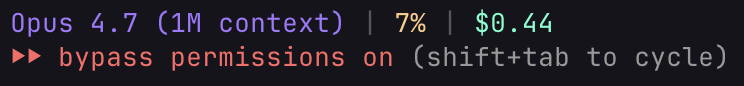
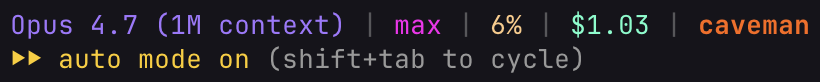
add claude code tuning post on caveman mode

Changed region(s): [[0.0, 0.5122, 0.9892, 0.878], [0.0, 0.122, 0.9892, 0.4634], [0.371, 0.5366, 0.4019, 0.561]]

diff --git a/content/posts/caveman-mode.md b/content/posts/caveman-mode.md
@@ -1,0 +1,147 @@
+---
+title: "Claude Code Tuning - Caveman Mode"
+description: "A skill that strips filler from agent replies, cuts token usage ~75% and leaves the technical substance intact"
+publishDate: "6 May 2026"
+tags: ["ai"]
+---
+
+Every "Sure! I'd be happy to help you with that." is tokens you paid for and context you burned. Multiply by a session and the bill - in dollars and in context window - adds up fast. Caveman mode is a skill that fixes that.
+
+## What it does
+
+Caveman mode is a Claude Code skill that tells the agent to respond like a terse, smart caveman. Filler dies. Technical substance stays. Code blocks, error strings and exact names come through untouched.
+
+Before:
+
+> Sure! I'd be happy to take a look at that. The issue you're experiencing is likely caused by an off-by-one error in the token expiry check within the authentication middleware. Let me explain what's happening...
+
+After:
+
+> Bug in auth middleware. Token expiry check use `<` not `<=`. Fix:
+
+Same information. ~75% fewer tokens. Same diff at the end of the turn.
+
+## How to trigger it
+
+Grab the [SKILL.md](https://github.com/JuliusBrussee/caveman/blob/main/caveman/SKILL.md) from Julius Brussee's repo and drop it into `~/.claude/skills/caveman/`.
+
+Once loaded, invoke it with any of these:
+
+- `/caveman`
+- "caveman mode"
+- "talk like caveman"
+- "be brief"
+- "less tokens"
+
+Turn off with "stop caveman" or "normal mode".
+
+## What it actually strips
+
+- Articles (a / an / the)
+- Filler (just / really / basically / actually / simply)
+- Pleasantries (sure / certainly / of course / happy to)
+- Hedging ("it seems that", "you might want to consider")
+- Long conjunctions replaced with arrows: `X -> Y`
+- Common terms abbreviated: DB, auth, config, req, res, fn, impl
+
+What it does *not* touch:
+
+- Code blocks
+- Error messages (quoted exact)
+- Symbol names, file paths, flags
+- Security warnings and destructive-action confirmations
+
+That last exemption matters. When the agent is about to run `DROP TABLE users`, you want the full English warning, not a fragment. The skill drops caveman temporarily for irreversible actions, multi-step sequences where fragment order risks misread and when you ask it to clarify. Then resumes.
+
+## When to reach for it
+
+- Long sessions where context fills up faster than you'd like
+- Debug loops with heavy back-and-forth
+- Any task where the *output you care about* is a diff, a command or a fact - not the explanation around it
+
+## When not to
+
+- First pass on an unfamiliar codebase where the prose around the answer is doing teaching work
+- Writing documentation, tickets, ADRs or PR descriptions - you want the full sentences there
+- Pairing with a less experienced engineer who needs the framing
+
+The skill's value is proportional to how much of the response you were already skimming past.
+
+## Pair it with a context-aware status line
+
+Caveman mode compresses output. A status line makes the compression visible. You can see context usage tick up slower, cost climb less steeply and the difference between a caveman turn and a normal one in real time.
+
+Drop this into `~/.claude/statusline-command.sh`:
+
+```bash
+#!/bin/bash
+input=$(cat)
+
+model=$(echo "$input" | jq -r '.model.display_name | sub("^anthropic\\.claude-";"") | sub("-v[0-9]+$";"")')
+effort=$(echo "$input" | jq -r '.effort.level // empty')
+ctx=$(echo "$input" | jq -r '.context_window.used_percentage // 0')
+cost=$(echo "$input" | jq -r '.cost.total_cost_usd')
+transcript=$(echo "$input" | jq -r '.transcript_path // empty')
+
+cost_fmt=$(printf "%.2f" "$cost")
+
+case "$effort" in
+  low)    effort_color=$'\033[38;2;0;255;255m' ;;    # neon cyan
+  medium) effort_color=$'\033[38;2;57;255;20m' ;;    # neon green
+  high)   effort_color=$'\033[38;2;255;255;51m' ;;   # neon yellow
+  xhigh)  effort_color=$'\033[38;2;255;102;0m' ;;    # neon orange
+  max)    effort_color=$'\033[38;2;255;16;240m' ;;   # neon pink
+  *)      effort_color=$'\033[35m' ;;                # fallback magenta
+esac
+
+caveman=""
+if [ -n "$transcript" ] && [ -f "$transcript" ]; then
+  act_line=$(grep -n -E '"(content|prompt)":"(<command-message>caveman|caveman on)' "$transcript" 2>/dev/null | tail -1 | cut -d: -f1)
+  deact_line=$(grep -n -E '"(content|prompt)":"(stop caveman|normal mode|caveman off)"' "$transcript" 2>/dev/null | tail -1 | cut -d: -f1)
+  if [ -n "$act_line" ] && { [ -z "$deact_line" ] || [ "$act_line" -gt "$deact_line" ]; }; then
+    caveman="on"
+  fi
+fi
+
+printf "\033[34m%s\033[0m" "$model"
+if [ -n "$effort" ]; then
+  printf " \033[2m|\033[0m %s%s\033[0m" "$effort_color" "$effort"
+fi
+printf " \033[2m|\033[0m \033[33m%s%%\033[0m \033[2m|\033[0m \033[32m\$%s\033[0m" "$ctx" "$cost_fmt"
+if [ -n "$caveman" ]; then
+  printf " \033[2m|\033[0m \033[38;2;255;102;0m\033[1mcaveman\033[0m"
+fi
+```
+
+Make it executable:
+
+```bash
+chmod +x ~/.claude/statusline-command.sh
+```
+
+Then wire it up in `~/.claude/settings.json`:
+
+```json
+{
+  "statusLine": {
+    "type": "command",
+    "command": "bash ~/.claude/statusline-command.sh"
+  }
+}
+```
+
+Restart Claude Code. You now have model, reasoning effort, context percentage, session cost and - when active - a caveman indicator at a glance:
+
+```
+Opus 4.7 (1M context) | max | 6% | $1.03 | caveman
+```
+
+The caveman segment watches the session transcript for activation (`/caveman`, "caveman on") and deactivation ("stop caveman", "normal mode", "caveman off") phrases, and only renders when the most recent one turned it on. No polling, no extra state file.
+
+![Custom status line showing Opus 4.7, max effort, 6% context used, $1.03 session cost and the caveman indicator lit](/images/claude-code-status-line.png)
+
+## Summary
+
+Tokens are the currency of accuracy. The more of your window is spent on filler, the less is available for code, conventions and the actual problem. Caveman mode shrinks the per-turn cost. The status line turns context usage into something you feel in the moment, not a number you discover when `/context` starts warning.
+
+Neither is a silver bullet. Together they shift your sessions from "hope the window holds" to "watch the window stay low while the work gets done". That shift compounds - more iterations per session, less auto-compaction, fewer lost threads.